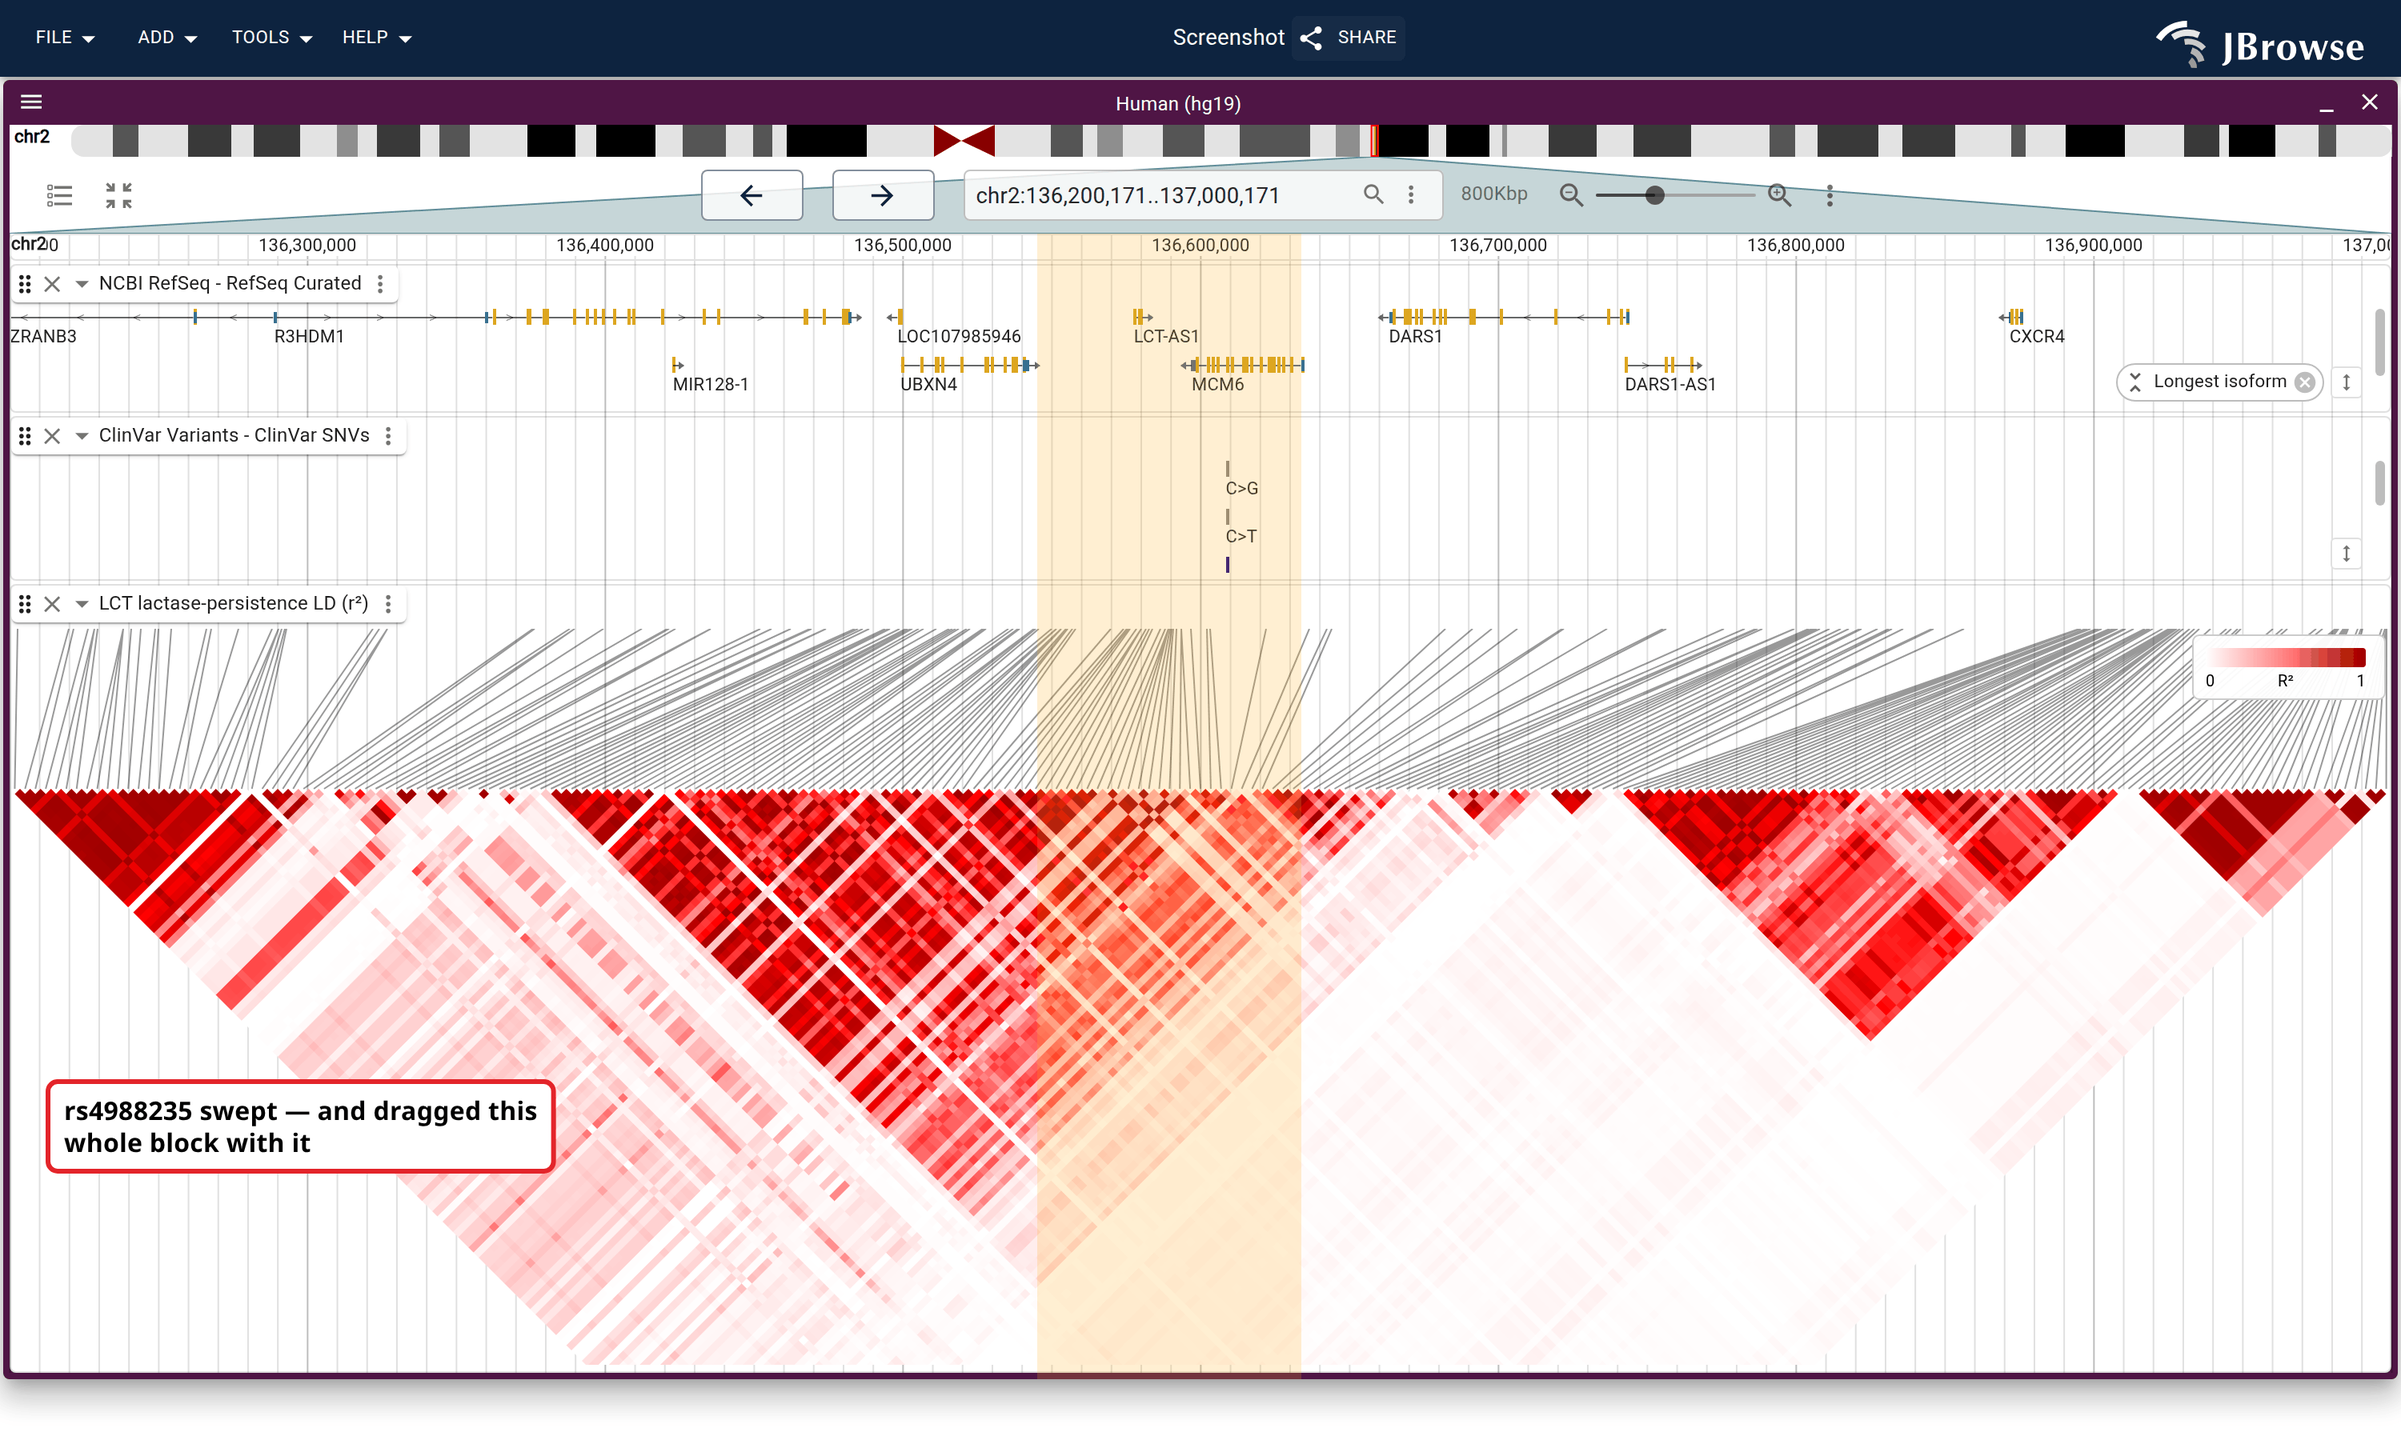
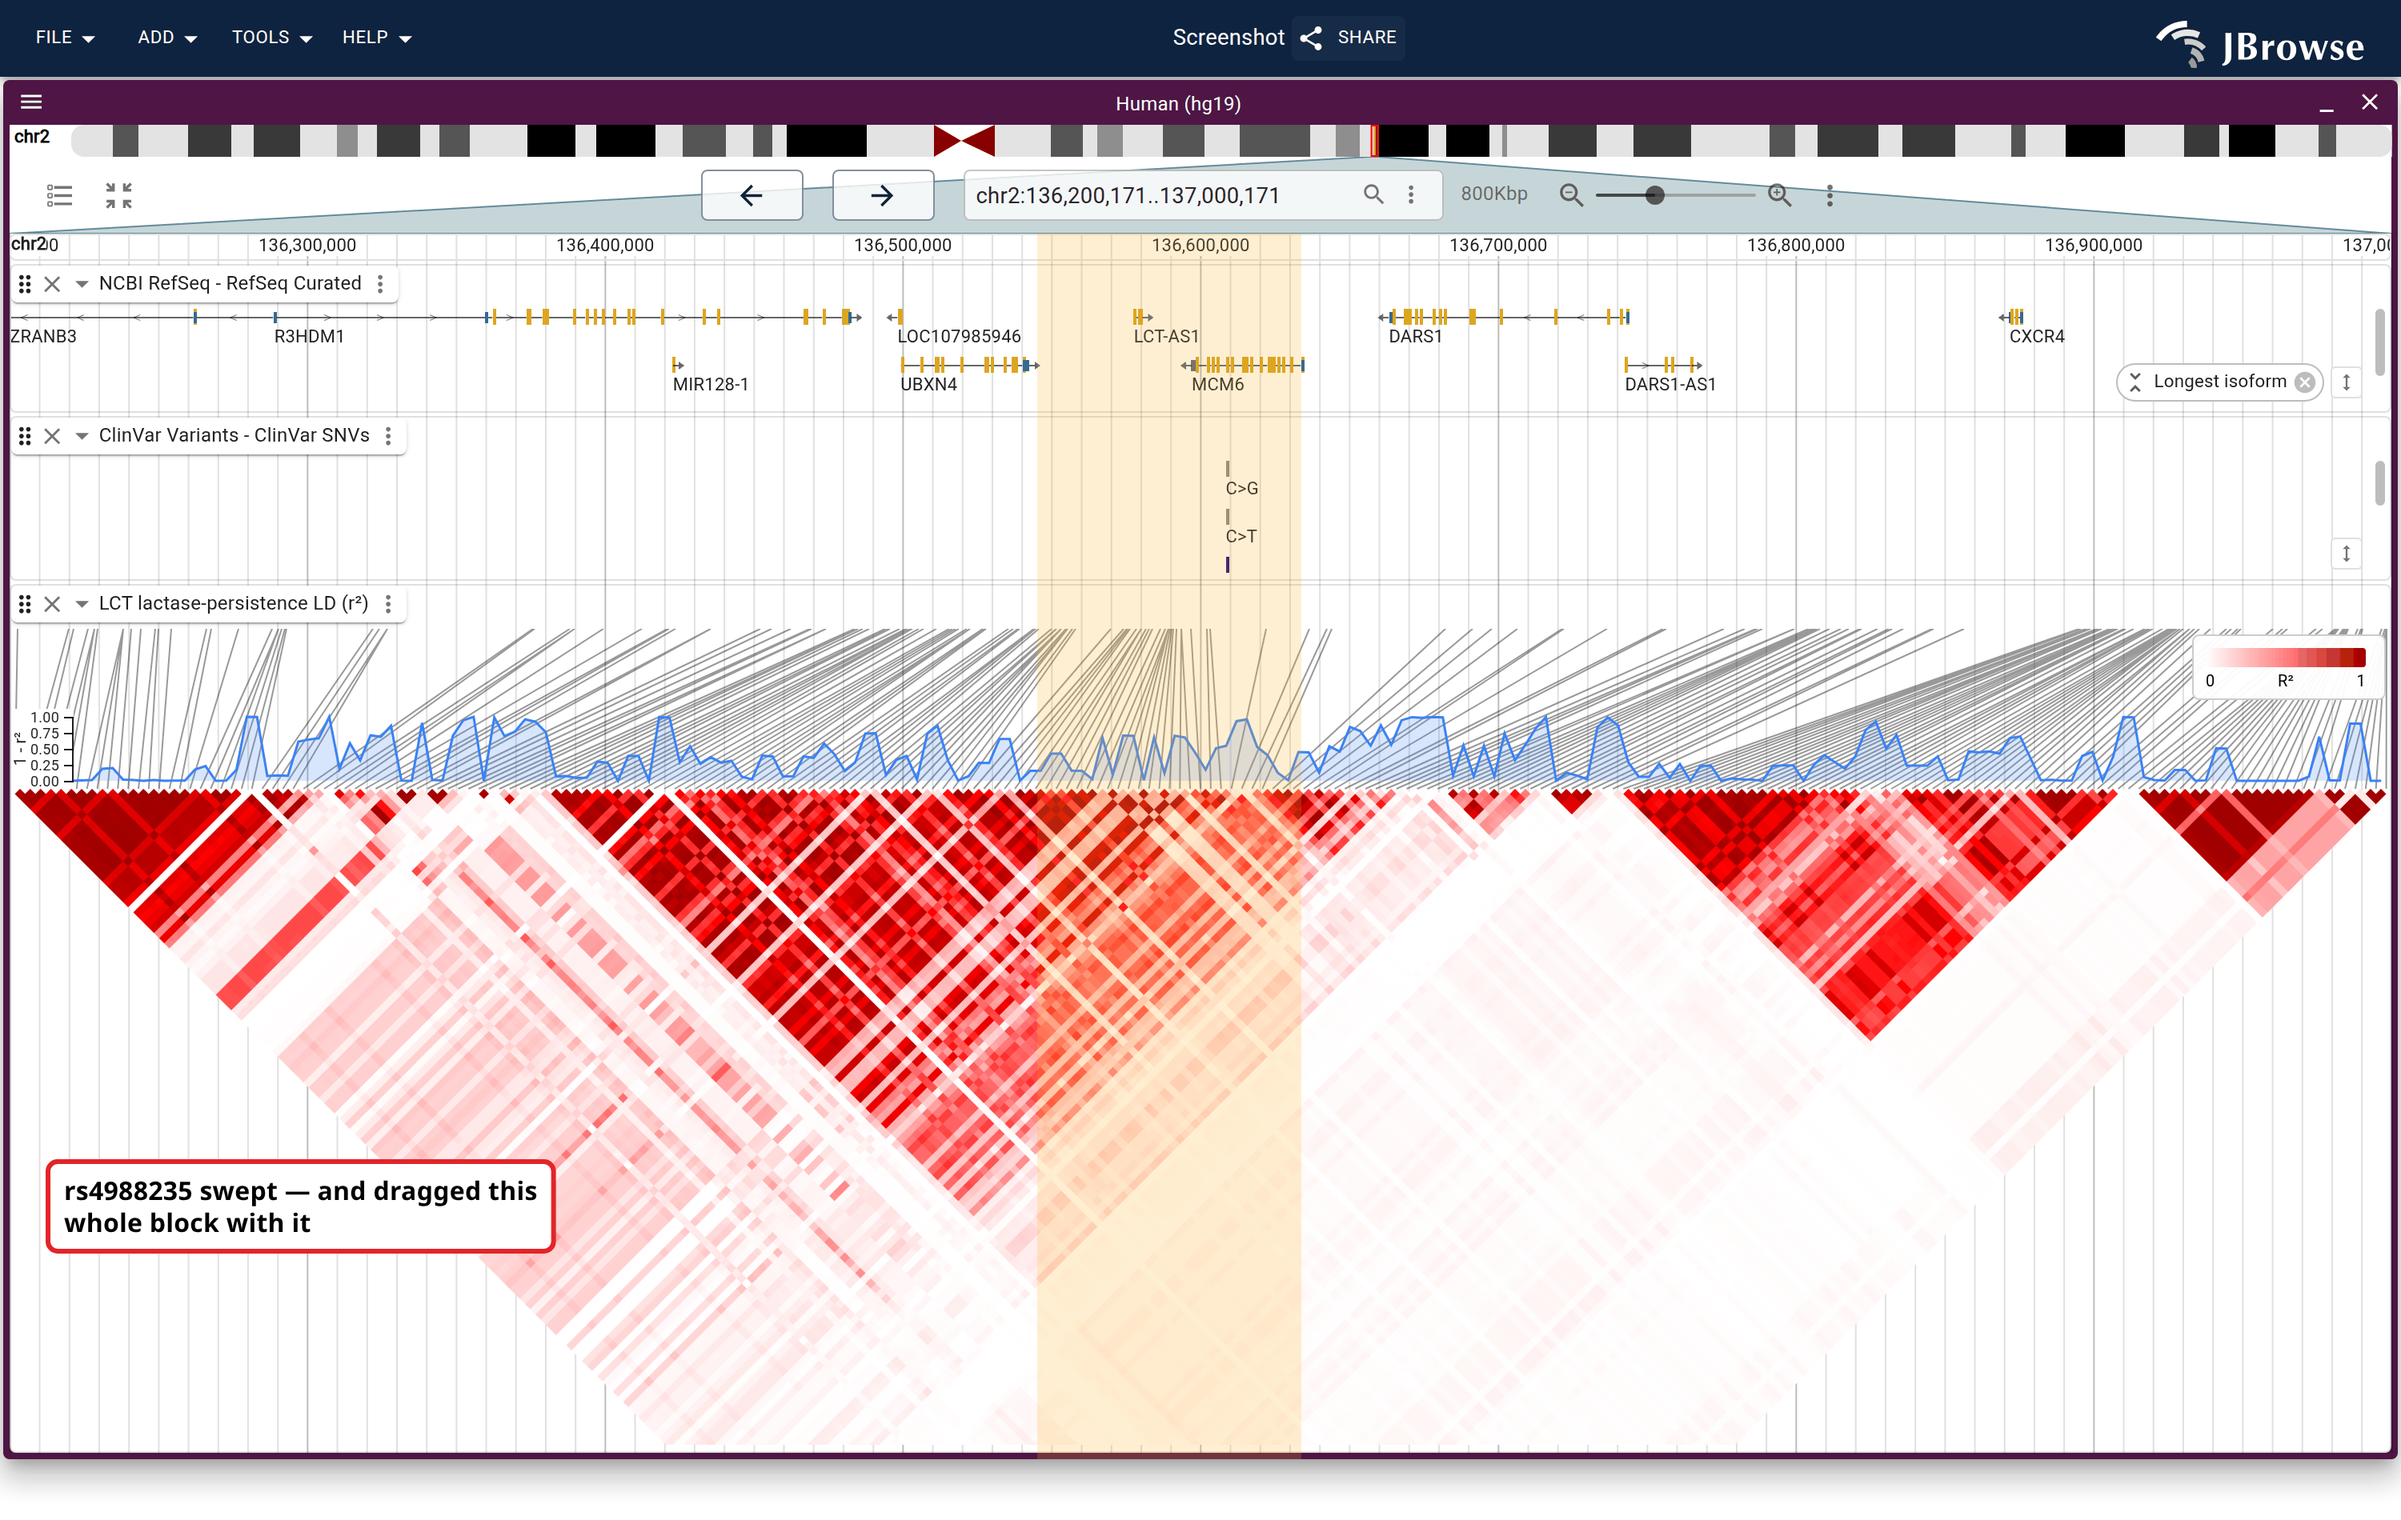
docs(ld): show the recombination track in the LCT lactase LD figure
Adds showRecombination to the LD spec so the 1 - r^2 curve renders
directly in the figure instead of asking the reader to toggle it live.

diff --git a/website/scripts/specs/ld.ts b/website/scripts/specs/ld.ts
@@ -41,8 +41,11 @@ const LCT_TRACK = {
       type: 'LDDisplay',
       showLDTriangle: true,
       showLegend: true,
+      showRecombination: true,
       minorAlleleFrequencyFilter: 0.35,
-      height: 460,
+      // 460 for the triangle (unchanged) + 50 for the recombination zone
+      // showRecombination adds above it
+      height: 510,
     },
   ],
 }
@@ -101,18 +104,20 @@ export const ldSpecs: ScreenshotSpec[] = [
     })}&sessionName=Screenshot`,
     readyText: 'variants shown',
     readyTimeout: 180000,
-    // gene(60) + clinvar(70) + ld(460) + 3 headers + ruler/overview, with room
-    // for the triangle to reach its base
-    viewportHeight: 900,
+    // gene(60) + clinvar(70) + ld(510, incl. the recombination zone) + 3
+    // headers + ruler/overview, with room for the triangle to reach its base
+    viewportHeight: 950,
     settleMs: 14000,
     annotations: [
       {
         type: 'text',
         // bottom-left, in the triangle's empty long-range corner: clear of the
         // banded LCT/MCM6 locus (highlight starts ~x=650) and, unlike the old
-        // y=245, clear of the ClinVar track header it used to cover
+        // y=245, clear of the ClinVar track header it used to cover. Shifted
+        // down 50px from the pre-recombination-track value to track the
+        // triangle, which the recombination zone now pushes down by that much.
         x: 40,
-        y: 700,
+        y: 750,
         maxWidth: 300,
         fontSize: 16,
         text: 'rs4988235 swept — and dragged this whole block with it',
